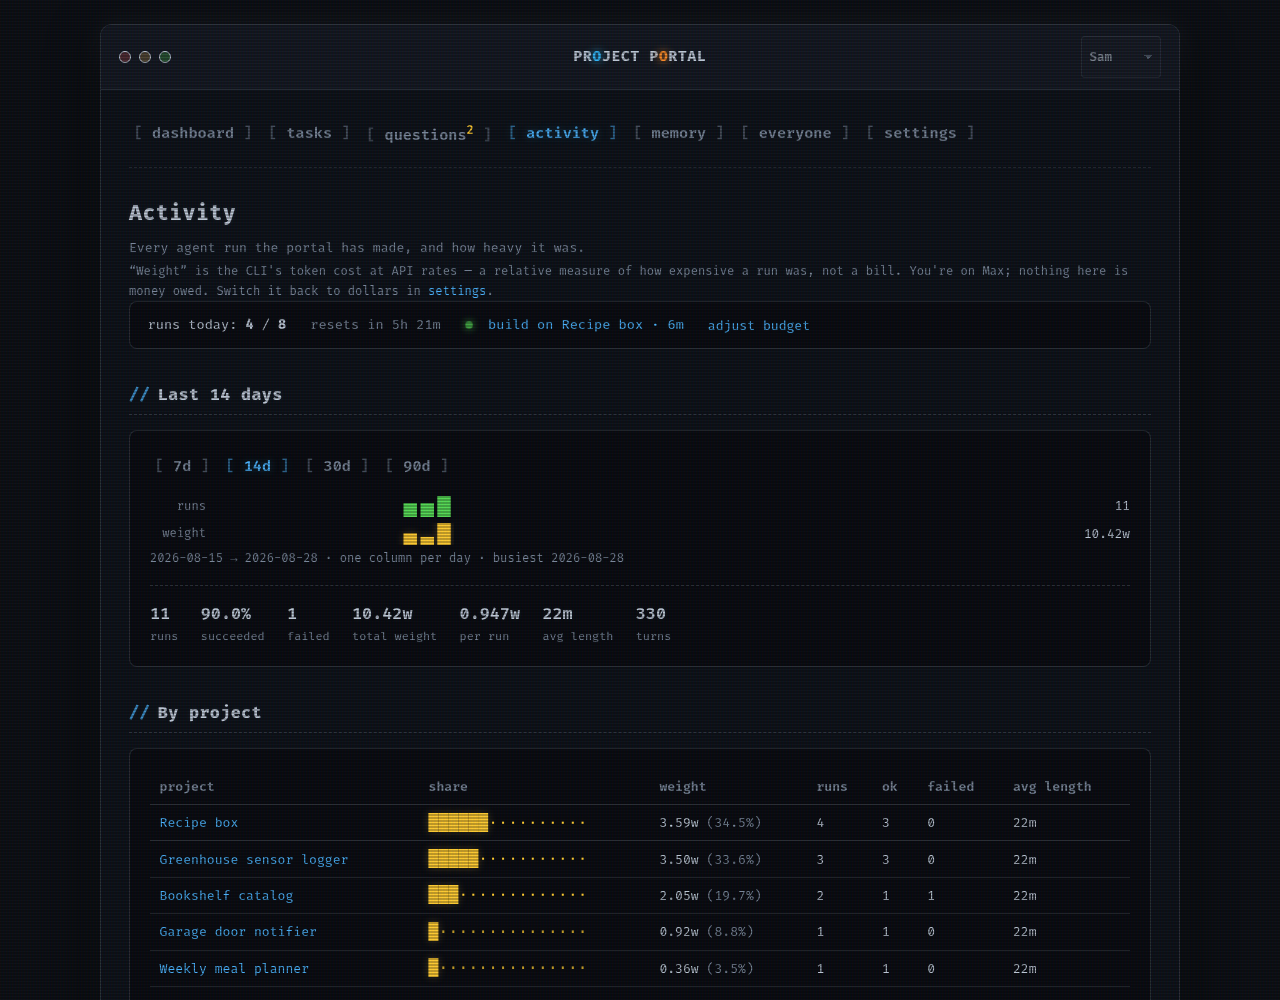
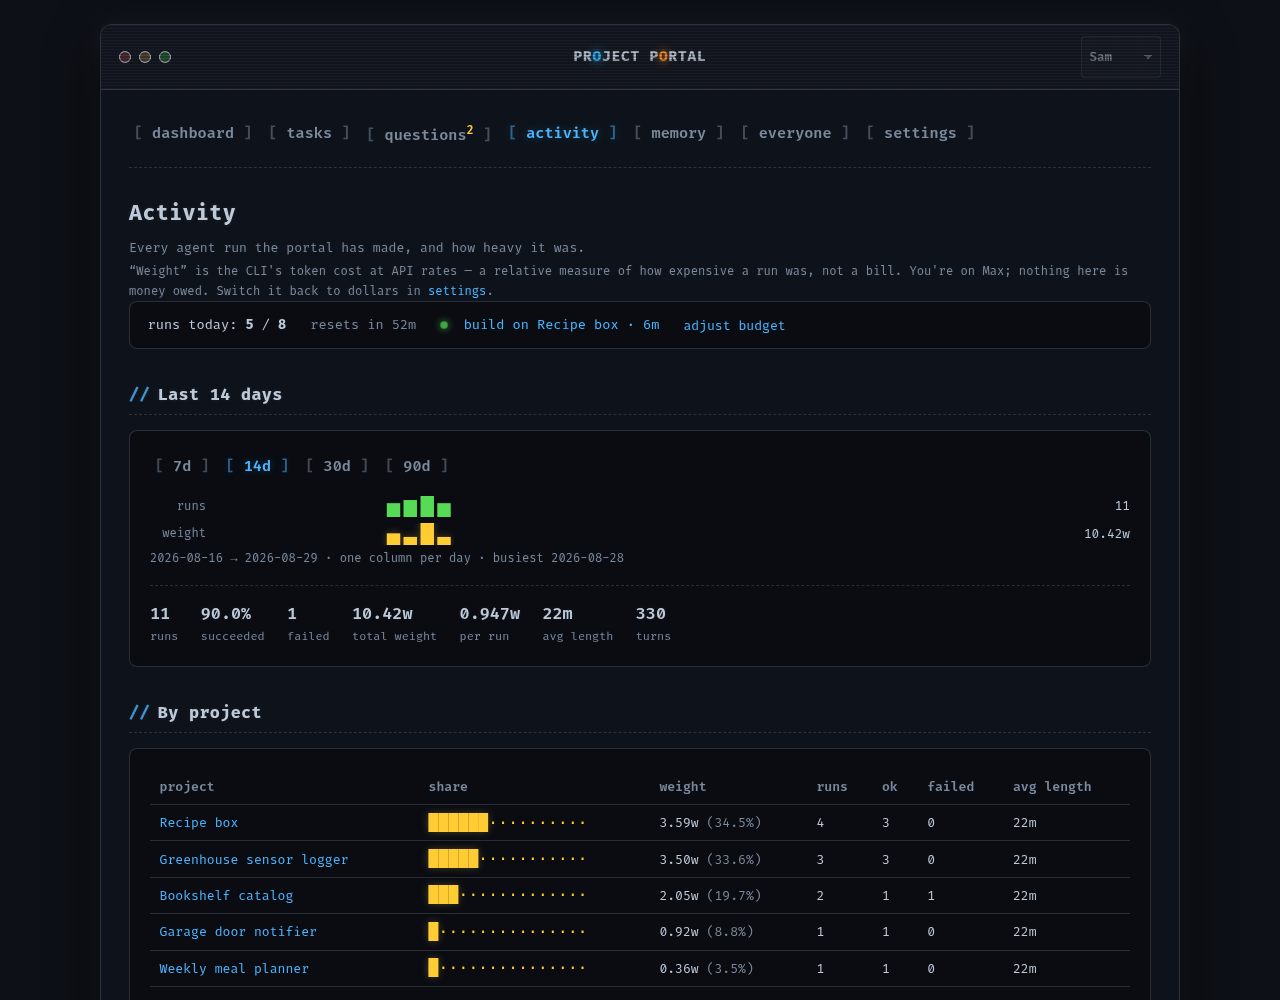
Update from upstream

diff --git a/app/templates/project.html b/app/templates/project.html
@@ -1107,34 +1107,6 @@
    would otherwise list "Journal" twice. #}
 <div class="card scroll-cap scroll-cap-journal" id="journal" data-jump="journal-box"
      data-jump-nav="off">
-  {# The rest of the journal, on request rather than on every load. Wes,
-     2026-08-28: "It also seems to take much longer to reload a page, and my key
-     commands to jump to a certain area of the page do not work when it is
-     taking this time to load."
-
-     Measured: this page was 596 KB of HTML and 490 KB of it was two hundred
-     rendered journal entries. The jump keys are bound at DOMContentLoaded,
-     which cannot fire until all of that has been parsed - so the keys were not
-     broken, they did not exist yet.
-
-     A plain link, not a fetch: `?journal=all` is a real address he can bookmark
-     or open in a second tab, it works with scripting off, and liveRefreshNow()
-     re-fetches location.href - so a live patch while the journal is expanded
-     keeps it expanded, with no client-side state to go stale.
-
-     It sits at the TOP of the box because the box reads newest-first: older is
-     up, the same direction the reader is already going. #}
-  {% if journal_hidden %}
-  <p class="journal-more">
-    <a href="/project/{{ project.slug }}?journal=all#journal">show {{ journal_hidden }} older entr{{ 'y' if journal_hidden == 1 else 'ies' }}</a>
-    <span class="small muted">kept off this page so it loads fast</span>
-  </p>
-  {% elif journal_all %}
-  <p class="journal-more">
-    <a href="/project/{{ project.slug }}#journal">show fewer</a>
-    <span class="small muted">the whole journal is on this page</span>
-  </p>
-  {% endif %}
   {% for j in journal %}
   {% set pending = note_pending(j) %}
   {# No side-thread rows here to badge any more: asks and their answers are
@@ -1207,6 +1179,41 @@
     {% endif %}
   </div>
   {% endfor %}
+  {# The rest of the journal, on request rather than on every load. Wes,
+     2026-08-28: "It also seems to take much longer to reload a page, and my key
+     commands to jump to a certain area of the page do not work when it is
+     taking this time to load."
+
+     Measured: this page was 596 KB of HTML and 490 KB of it was two hundred
+     rendered journal entries. The jump keys are bound at DOMContentLoaded,
+     which cannot fire until all of that has been parsed - so the keys were not
+     broken, they did not exist yet.
+
+     A plain link, not a fetch: `?journal=all` is a real address he can bookmark
+     or open in a second tab, it works with scripting off, and liveRefreshNow()
+     re-fetches location.href - so a live patch while the journal is expanded
+     keeps it expanded, with no client-side state to go stale.
+
+     It sits at the END of the box, after the last entry. Wes, 2026-08-29: "for
+     the 'show 170 older entries' stuff in the journal, move that to the very
+     end of the scroll rather than the top." It was at the top on the reasoning
+     that the box reads newest-first, so older is up - but that reasoning is
+     about direction and this is about ORDER OF ARRIVAL. Jumping to the journal
+     put a slow, page-doubling link under the cursor before a single entry had
+     been read, which is the one thing this control should never be: it is the
+     floor you reach when you have run out of journal, not a door you are
+     offered on the way in. #}
+  {% if journal_hidden %}
+  <p class="journal-more">
+    <a href="/project/{{ project.slug }}?journal=all#journal">show {{ journal_hidden }} older entr{{ 'y' if journal_hidden == 1 else 'ies' }}</a>
+    <span class="small muted">kept off this page so it loads fast</span>
+  </p>
+  {% elif journal_all %}
+  <p class="journal-more">
+    <a href="/project/{{ project.slug }}#journal">show fewer</a>
+    <span class="small muted">the whole journal is on this page</span>
+  </p>
+  {% endif %}
 </div>
 {% else %}
 <p class="empty-state">No journal entries yet.</p>

diff --git a/app/static/style.css b/app/static/style.css
@@ -927,17 +927,22 @@ form.inline { display: inline-block; margin-right: 0.4rem; }
 
 /* Journal / logs --------------------------------------------------------- */
 
-/* "show N older entries", at the top of the journal box. Reads as a quiet
-   note rather than a control, because expanding the journal is the slow path
-   and nothing should invite a tap on it. */
+/* "show N older entries", at the END of the journal box, below the last entry
+   (Wes, 2026-08-29). Reads as a quiet note rather than a control, because
+   expanding the journal is the slow path and nothing should invite a tap on it.
+
+   The rule above the text rather than below it: sitting last in the box, this
+   is the line that closes the scroll, so the separator belongs between it and
+   the final entry. `margin-bottom: 0` keeps it flush with the bottom of the
+   card instead of leaving a gap under the last thing on the page. */
 .journal-more {
   display: flex;
   flex-wrap: wrap;
   align-items: baseline;
   gap: 0.6rem;
-  margin: 0 0 1.2rem;
-  padding-bottom: 0.8rem;
-  border-bottom: 1px dashed var(--window-border);
+  margin: 0;
+  padding-top: 0.9rem;
+  border-top: 1px dashed var(--window-border);
 }
 .journal-more a { font-size: 0.85rem; }
 

diff --git a/app/config.py b/app/config.py
@@ -252,13 +252,13 @@ DEFAULT_SETTINGS: dict[str, str] = {
     # collapse to one, leaving 8.9 KB, and 6 keeps roughly the last two thirds
     # of the real decisions. Older ones are named as left out, not hidden.
     "prompt_answered_kb": "6",
-    # Appearance: how much of the CRT treatment to apply (see APPEARANCE below).
-    "ui_theme": "terminal",
-    "crt_scanlines": "all",
-    "crt_glow": "prose",
-    "crt_animations": "on",
-    "ui_font": "mono",
-    "ui_density": "comfortable",
+    # The appearance keys are NOT written out here. They are spread in from
+    # APPEARANCE_DEFAULTS below, once, so that the table a fresh install is
+    # seeded from and the table a running page falls back to cannot disagree.
+    # They were two hand-kept copies of the same six values until 2026-08-29,
+    # which is a divergence nobody would ever see: the seeded row wins on a new
+    # install and the fallback wins on an old one, so the same portal would
+    # look different depending on when it was installed.
 }
 
 # Appearance ------------------------------------------------------------------
@@ -430,8 +430,32 @@ THEME_STOCK: dict[str, str] = {
 DEFAULT_THEME_STOCK = "dark"
 
 APPEARANCE_DEFAULTS = {key: choices[0][0] for key, choices in APPEARANCE_CHOICES.items()}
-# The shipped default for glow is the middle option, not the first one.
+# Two of the CRT layers ship on their MIDDLE option rather than their first,
+# and for the same reason: the effect is charming on the frame and tiring on
+# the words. The choice lists are ordered most-treatment-first because that is
+# the order a person reading a dropdown expects; where the shipped answer is
+# not the top of that list, it is stated here.
+#
+# glow: "prose" - crisp inputs, buttons and tables.
+# scanlines: "chrome" - the frame and the agent console, and nothing you read.
+#
+# Wes, 2026-08-29, on the README screenshots: "I noticed in the GitHub
+# screenshots that the scan lines are in front of the text - I want you to make
+# my current 'Wes' settings the default settings for a new installation." His
+# own install has been on `chrome` for a long time; the shipped default was
+# still `all`, so every fresh install - and every screenshot taken from the
+# demo board, which seeds from this table - wore scanlines over its body text.
+# This is the only appearance key on which his install differed from the
+# defaults, so this line is the whole of that request. (His pacing settings and
+# his Telegram token also differ, and are deliberately NOT copied here: the
+# pacing is a personal spend-down of one Max subscription, and a token is a
+# secret. See the 2026-08-29 journal entry.)
 APPEARANCE_DEFAULTS["crt_glow"] = "prose"
+APPEARANCE_DEFAULTS["crt_scanlines"] = "chrome"
+
+# The seed table and the runtime fallback are now the same values by
+# construction rather than by two people remembering to edit both.
+DEFAULT_SETTINGS.update(APPEARANCE_DEFAULTS)
 
 # Dashboard sorting -----------------------------------------------------------
 # name -> (label, SQL ORDER BY). The SQL is interpolated into the query, so this

diff --git a/tests/test_appearance.py b/tests/test_appearance.py
@@ -39,10 +39,17 @@ def body_class_set(client) -> set[str]:
 
 
 def test_defaults_render_as_body_classes(client):
+    """That each layer's shipped default reaches <body> - not what any one of
+    them happens to be. Read from APPEARANCE_DEFAULTS rather than spelled out,
+    so changing a default (as crt_scanlines did on 2026-08-29) is one edit in
+    config.py and not a hunt for literals in the suite; the value itself is
+    pinned by test_a_fresh_install_keeps_scanlines_off_the_text."""
     body = client.get("/").text
-    for expected in ("scan-all", "glow-prose", "anim-on", "font-mono", "density-comfortable"):
-        assert expected in body_class_set(client)
-        assert expected in body
+    classes = body_class_set(client)
+    for key, prefix in config.APPEARANCE_CLASS_PREFIX.items():
+        expected = f"{prefix}-{config.APPEARANCE_DEFAULTS[key]}"
+        assert expected in classes, key
+        assert expected in body, key
 
 
 def test_each_layer_can_be_turned_off_independently(client):
@@ -58,6 +65,42 @@ def test_scanlines_can_be_limited_to_chrome(client):
     body = client.get("/").text
     assert "scan-chrome" in body
     assert "anim-off" in body
+
+
+def test_a_fresh_install_keeps_scanlines_off_the_text(client):
+    """Wes, 2026-08-29, on the README screenshots: "I noticed in the GitHub
+    screenshots that the scan lines are in front of the text - I want you to
+    make my current 'Wes' settings the default settings for a new
+    installation."
+
+    A brand-new database, nobody's personal overrides, nothing posted: the body
+    class a stranger's first page load carries. `scan-all` is what put the
+    lines over the body text in docs/images/*.png."""
+    body = client.get("/").text
+
+    assert "scan-chrome" in body
+    assert "scan-all" not in body
+
+
+def test_the_seed_table_and_the_runtime_fallback_cannot_disagree(temp_data_dir):
+    """Both of these are "the default appearance", and until 2026-08-29 they
+    were two hand-kept copies that had drifted apart on crt_scanlines.
+
+    The drift is invisible in ordinary use, which is what makes it worth a
+    test: DEFAULT_SETTINGS wins on a fresh install (db.init seeds it) and
+    APPEARANCE_DEFAULTS wins on an install predating the key, so the same
+    portal on the same version would look different depending on when it was
+    installed."""
+    for key, value in config.APPEARANCE_DEFAULTS.items():
+        assert config.DEFAULT_SETTINGS[key] == value, key
+
+
+def test_every_appearance_default_is_one_of_its_own_choices(temp_data_dir):
+    """A default that is not in its choice list is a dropdown that opens on
+    nothing selected and a body class matching no CSS rule - a look nobody
+    chose and no setting can restore."""
+    for key, choices in config.APPEARANCE_CHOICES.items():
+        assert config.APPEARANCE_DEFAULTS[key] in {v for v, _ in choices}, key
 
 
 def test_unknown_appearance_value_falls_back_to_the_default(client):

diff --git a/tests/test_journal_window.py b/tests/test_journal_window.py
@@ -191,6 +191,48 @@ def test_asking_for_all_of_it_gets_all_of_it(client, loaded):
     assert "show fewer" in body
 
 
+def test_show_older_sits_after_the_last_entry_not_before_the_first(client, loaded):
+    """Wes, 2026-08-29: "for the 'show 170 older entries' stuff in the journal,
+    move that to the very end of the scroll rather than the top."
+
+    Asserted by position in the document rather than by presence, because
+    presence is what the tests above already cover and position is the whole of
+    what he asked for. Both the newest entry (the first one rendered) and the
+    oldest one on the page (the last) have to come before the control, or it is
+    only "further down", not "the very end".
+
+    Anchored on `class="journal-more"` rather than on the label text, because
+    the label text is not unique on a real page: the note in which Wes ASKED
+    for this move contains the words "show 170 older entries", and it renders
+    as a journal entry near the top of the very page the control sits at the
+    bottom of. Searching for the words finds his sentence first."""
+    body = client.get("/project/portal").text
+
+    control = body.index('class="journal-more"')
+    newest = body.index(f"entry number {journalwindow.MAX_ENTRIES + 11}")
+    oldest_shown = body.index("entry number 12")
+
+    assert newest < control
+    assert oldest_shown < control
+    # It is the control, and it is the only one.
+    assert "show 12 older entries" in body[control:]
+    assert body.count('class="journal-more"') == 1
+    # Nothing of the journal feed may follow it.
+    assert "journal-entry" not in body[control:]
+
+
+def test_show_fewer_sits_at_the_end_too(client, loaded):
+    """The expanded page's control is the same control in the same place: at
+    the bottom of a 42-entry scroll, not floating above it."""
+    body = client.get("/project/portal?journal=all").text
+
+    control = body.index('class="journal-more"')
+
+    assert body.index("entry number 0") < control
+    assert "show fewer" in body[control:]
+    assert "journal-entry" not in body[control:]
+
+
 def test_a_short_journal_offers_no_link_at_all(client, temp_data_dir):
     """The control is noise on a project that has nothing hidden."""
     project = db.create_project("Small", description="x", stage="active", slug="small")

diff --git a/tests/test_person_theme.py b/tests/test_person_theme.py
@@ -200,7 +200,12 @@ def test_her_choice_does_not_reach_his_screen(client, two):
     his = _body_classes(client.get("/").text)
 
     assert "scan-off" in hers and "font-sans" in hers
-    assert "scan-all" in his and "font-mono" in his
+    # His is the install's look, untouched - named through the constant so this
+    # keeps asserting "she did not move him" rather than a particular default.
+    assert f"scan-{config.APPEARANCE_DEFAULTS['crt_scanlines']}" in his
+    assert "font-mono" in his
+    # And she really did change something, or the assertion above is vacuous.
+    assert config.APPEARANCE_DEFAULTS["crt_scanlines"] != "off"
 
 
 def test_saving_the_panel_writes_to_whoever_is_reading_it(client, two):
